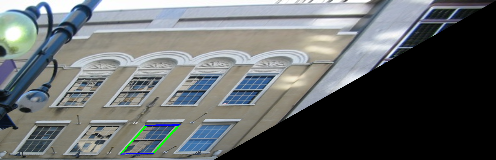
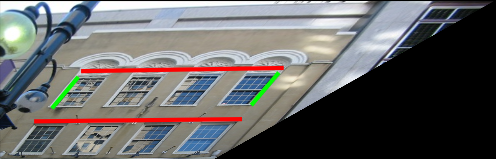
a1 fall2023

diff --git a/utils.py b/utils.py
@@ -1,20 +1,45 @@
+from PIL import Image
+import matplotlib.pyplot as plt
 import numpy as np
 import cv2
+
 
 def normalize(v):
     return v / np.sqrt(v[0]**2 + v[1]**2 + v[2]**2)
 
+
 def MyWarp(img, H):
     h, w = img.shape[:2]
-    pts = np.array([[0,0],[0,h],[w,h],[w,0]], dtype=np.float64).reshape(-1,1,2)
+    pts = np.array([[0, 0], [0, h], [w, h], [w, 0]], dtype=np.float64).reshape(-1, 1, 2)
     pts = cv2.perspectiveTransform(pts, H)
     [xmin, ymin] = (pts.min(axis=0).ravel() - 0.5).astype(int)
     [xmax, ymax] = (pts.max(axis=0).ravel() + 0.5).astype(int)
-    t = [-xmin,-ymin]
-    Ht = np.array([[1,0,t[0]],[0,1,t[1]],[0,0,1]])
+    t = [-xmin, -ymin]
+    Ht = np.array([[1, 0, t[0]], [0, 1, t[1]], [0, 0, 1]])
 
     result = cv2.warpPerspective(img, Ht.dot(H), (xmax-xmin, ymax-ymin))
     return result
 
+
 def cosine(u, v):
     return (u[0] * v[0] + u[1] * v[1]) / (np.sqrt(u[0]**2 + u[1]**2) * np.sqrt(v[0]**2 + v[1]**2))
+
+
+def annotate(impath):
+    im = Image.open(impath)
+    im = np.array(im)
+
+    clicks = []
+
+    def click(event):
+        x, y = event.xdata, event.ydata
+        clicks.append([x, y, 1.])
+
+    fig = plt.figure(1)
+    ax = fig.add_subplot(111)
+    ax.imshow(im)
+
+    _ = fig.canvas.mpl_connect('button_press_event', click)
+    plt.show()
+
+    return clicks

diff --git a/README.md b/README.md
@@ -1,8 +1,8 @@
 # HW1: Projective Geometry and Homography
 
 ## Instructions
-* Late Submission Policy: See the late submission policy [here](https://geometric3d.github.io/pages/assignments/hw0.html).
-* Submitting your work: Check the instructions for submission [here](https://geometric3d.github.io/pages/assignments/hw0.html).
+* Late Submission Policy: See the late submission policy [here](https://geometric3d.github.io/pages/assignments.html).
+* Submitting your work: Check the instructions for submission [here](https://geometric3d.github.io/pages/assignments.html).
 * There are `5` questions in this assignment, where the last `2` are bonus questions. Make sure you follow the instructions and submit the answers as required.
 
 
@@ -16,7 +16,14 @@ Your goal in this question is to generate affinely correct warps for images that
     | ----------- | ----------- |
     |  <img src="figures/good.jpg" height="200">  | <img src="figures/bad.jpg" height="200"> |
 
-  * Run your code on at least `3` images provided in the `data/q1` folder as well as *on the images you captured* (`5` images in total).
+  * Run your code on at least `3` images provided in the `data/q1` folder as well as *on the images you captured* (`5` images in total). We have provided parallel line annotation for each of them in `annotation/q1_annotation.npy` with an array of `16 x 2` for each image. Each consecutive point represents a line and each consecutive pair of line is parallel. We provide total 8 lines out of which last 4 are held-out lines for Q1.3. 
+  Example code to read the annotation: 
+
+  ```python
+    with open('q1_annotation.npy','rb') as f:
+        q1_annotation = np.load(f, allow_pickle=True)
+    points = q1_annotation.item().get('book1')
+  ```
 
 **Submission**
 1. Input Images
@@ -31,8 +38,8 @@ Your goal in this question is to generate affinely correct warps for images that
 
     | Before      | After |
     | ----------- | ----------- |
-    | 0.7274    | 0.9979    |
-    | 0.9998     | 0.9998    |
+    | 0.7842    | -0.9999    |
+    | -0.9999     | 0.9999    |
 
 
     | Test lines on Input Image     | Test lines on Affine-Rectified Image |
@@ -46,7 +53,7 @@ Your goal in this question is to generate metrically correct warps for images th
 
 **Dataset Preparation**
  1. Find (or capture) `2` images. Ideally capture images that have sufficient perspective.
- 2. Run your code on at least `3` images provided in the `data/q1` folder as well as *on the images you captured* (`5` images in total).
+ 2. Run your code on at least `3` images provided in the `data/q1` folder as well as *on the images you captured* (`5` images in total). We have provided perpendicular line annotation for each of them in `annotation/q2_annotation.npy` with an array of `16 x 2` for each image. Each consecutive point represents a line and each consecutive pair of line is perpendicular. We provide total 8 lines out of which last 4 are held-out lines for Q2.3.  The format is same as `annotation/q1_annotation.npy`. 
 
 **Submission**
 1. Input Images
@@ -60,8 +67,8 @@ Your goal in this question is to generate metrically correct warps for images th
 
     | Before      | After |
     | ----------- | ----------- |
-    | -0.15073    | -0.00624    |
-    | 0.10344     | 0.004659    |
+    | -0.66858    | -0.04479    |
+    | 0.02118     | -0.00964    |
 
 
     | Test lines on Input Image     | Test lines on Metric-Rectified Image |
@@ -78,7 +85,7 @@ Your goal in this question is to estimate homographies between two images using 
     | Normal Image | Perspective Image |
     | ----------- | ----------- |
     |  <img src="figures/desk-normal.png" height="150">  | <img src="figures/desk-perspective.png" height="150">  |
- 2. Run your code on the pair of images provided in the `data/q3` folder as well as `1` additional pair of images that you captured. 
+ 2. Run your code on the pair of images provided in the `data/q3` folder as well as `1` additional pair of images that you captured. We have provided annotation of the four corner points in `desk-perspective.png` (in anti-clockwise order) in `annotation/q3_annotation.npy`. The format is same as `annotation/q1_annotation.npy`. 
 
 **Submission**
 1. Input Images
@@ -89,12 +96,12 @@ Your goal in this question is to estimate homographies between two images using 
     |  <img src="figures/desk-normal.png" height="150">  | <img src="figures/desk-perspective.png" height="150">  |  <img src="figures/desk-corners.png" height="150">  | <img src="figures/desk-homography.png" height="150"> |
 3. Biref description of your implementation (i.e., the algorithm followed with relevant equations and what annotations were used).
 
-## Q4: Bonus 1 (10 points)
+## Q4: Bonus: Metric Rectification from Perpendicular Lines (10 points)
 In Q2, we generate metrically correct warps of images with annotations of 2 pairs of perpendicular lines based on the result from Q1. In this question, the goal is to metric-rectify the image directly from at least 5 pairs of perpendicular lines. Note you can use more than 5 pairs to get more accurate results.
 
 **Dataset Preparation**
- 1. Find (or capture) `2` images. Ideally capture images that have sufficient perspective.
- 2. Run your code on at least `3` images provided in the `data/q1` folder as well as *on the images you captured* (`5` images in total).
+ 1. Find (or capture) at least `1` image. Ideally capture an image that has sufficient perspective.
+ 2. Run your code on at least `1` image provided in the `data/q1` folder as well as *on the images you captured*.
 
 **Submission**
 1. Input Images
@@ -106,7 +113,7 @@ In Q2, we generate metrically correct warps of images with annotations of 2 pair
 3. Angles (more precisely, the cosines) of at least 3 pairs of perpendicular lines before and after rectification.
 4. Biref description of your implementation.
 
-## Q5: Bonus 2 (10 points)
+## Q5: Bonus: More Planar Homography from Point Correspondences (10 points)
 Try to be creative and do something fun!
 
 For example, in Q3, we attempt to overlay a normal image on top of an image with perspective effect. You can try to overlay multiple ($\ge 3$) normal images on top of the image with perspective effect:
@@ -129,6 +136,7 @@ For example, in Q3, we attempt to overlay a normal image on top of an image with
 * Use any predefined routines except linear algebra functions, image interpolation, and image warping.
   
 ## Tips
+* You can use the `annotate` function provided in `utils.py` to annotate your own image. It will save the click coordinates and return it as an array.  
 * It is a good idea to `assert` with sanity checks regularly during debugging.
 * Normalize point and line coordinates.
 * Pick the parallel and perpendicular lines carefully.
